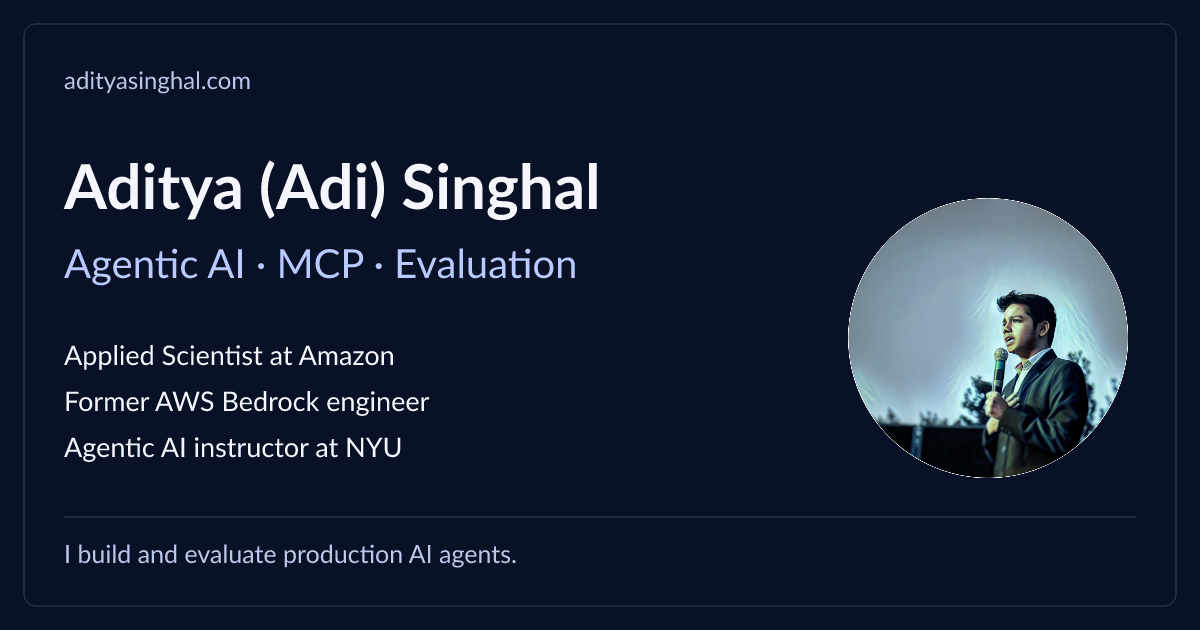
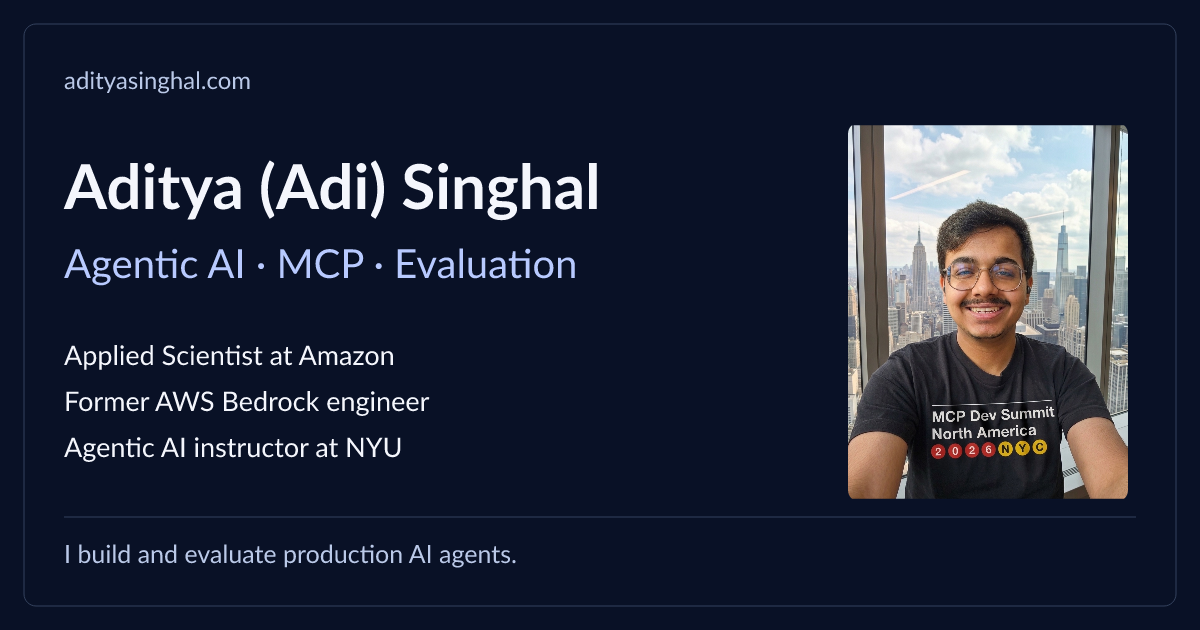
Add the supplied MCP portrait and synchronized waving pair

Changed region(s): [[0.7092, 0.181, 0.9558, 0.8143]]

diff --git a/scripts/personal-portraits.py b/scripts/personal-portraits.py
@@ -1,0 +1,59 @@
+# /// script
+# requires-python = ">=3.11"
+# dependencies = ["pillow==13.0.0"]
+# ///
+"""Regenerate the public portraits: uv run scripts/personal-portraits.py."""
+
+from pathlib import Path
+
+from PIL import Image, ImageOps
+
+root = Path(__file__).resolve().parents[1]
+source = root / "scripts/assets/personal-portraits"
+output = root / "public/static/images"
+
+with Image.open(source / "adi-mcp-2026.jpeg") as original:
+    portrait = ImageOps.exif_transpose(original).convert("RGB")
+    portrait.thumbnail((720, 1080), Image.Resampling.LANCZOS)
+    portrait.save(output / "adi-mcp-2026.webp", quality=88, method=6)
+
+# Both supplied GIFs already share a timeline. A single compressed animation
+# keeps the pair synchronized even when network loading or decoding is slow.
+frames = []
+durations = []
+with (
+    Image.open(source / "hi_adi.gif") as younger,
+    Image.open(source / "hi-adi-v2.gif") as current,
+):
+    if younger.n_frames != current.n_frames:
+        raise ValueError("The supplied waving portraits need matching frames.")
+    loop = younger.info.get("loop", 0)
+    if current.info.get("loop", 0) != loop:
+        raise ValueError("The supplied waving portraits need matching loops.")
+    for index in range(younger.n_frames):
+        younger.seek(index)
+        current.seek(index)
+        duration = younger.info["duration"]
+        if duration <= 0 or current.info["duration"] != duration:
+            raise ValueError(f"The portraits differ in timing at frame {index}.")
+        pair = Image.new("RGB", (1024, 300), "#091126")
+        for image, left in [(younger, 0), (current, 524)]:
+            panel = image.convert("RGB").resize(
+                (500, 300), Image.Resampling.LANCZOS
+            )
+            pair.paste(panel, (left, 0))
+        frames.append(pair)
+        durations.append(duration)
+
+frames[0].save(output / "adi-waving-still.webp", quality=88, method=6)
+frames[0].save(
+    output / "adi-waving-together.webp",
+    save_all=True,
+    append_images=frames[1:],
+    duration=durations,
+    loop=loop,
+    quality=88,
+    method=6,
+)
+print(f"Generated the MCP portrait and {len(frames)} synchronized waving frames "
+      f"({sum(durations)} ms per loop).")
